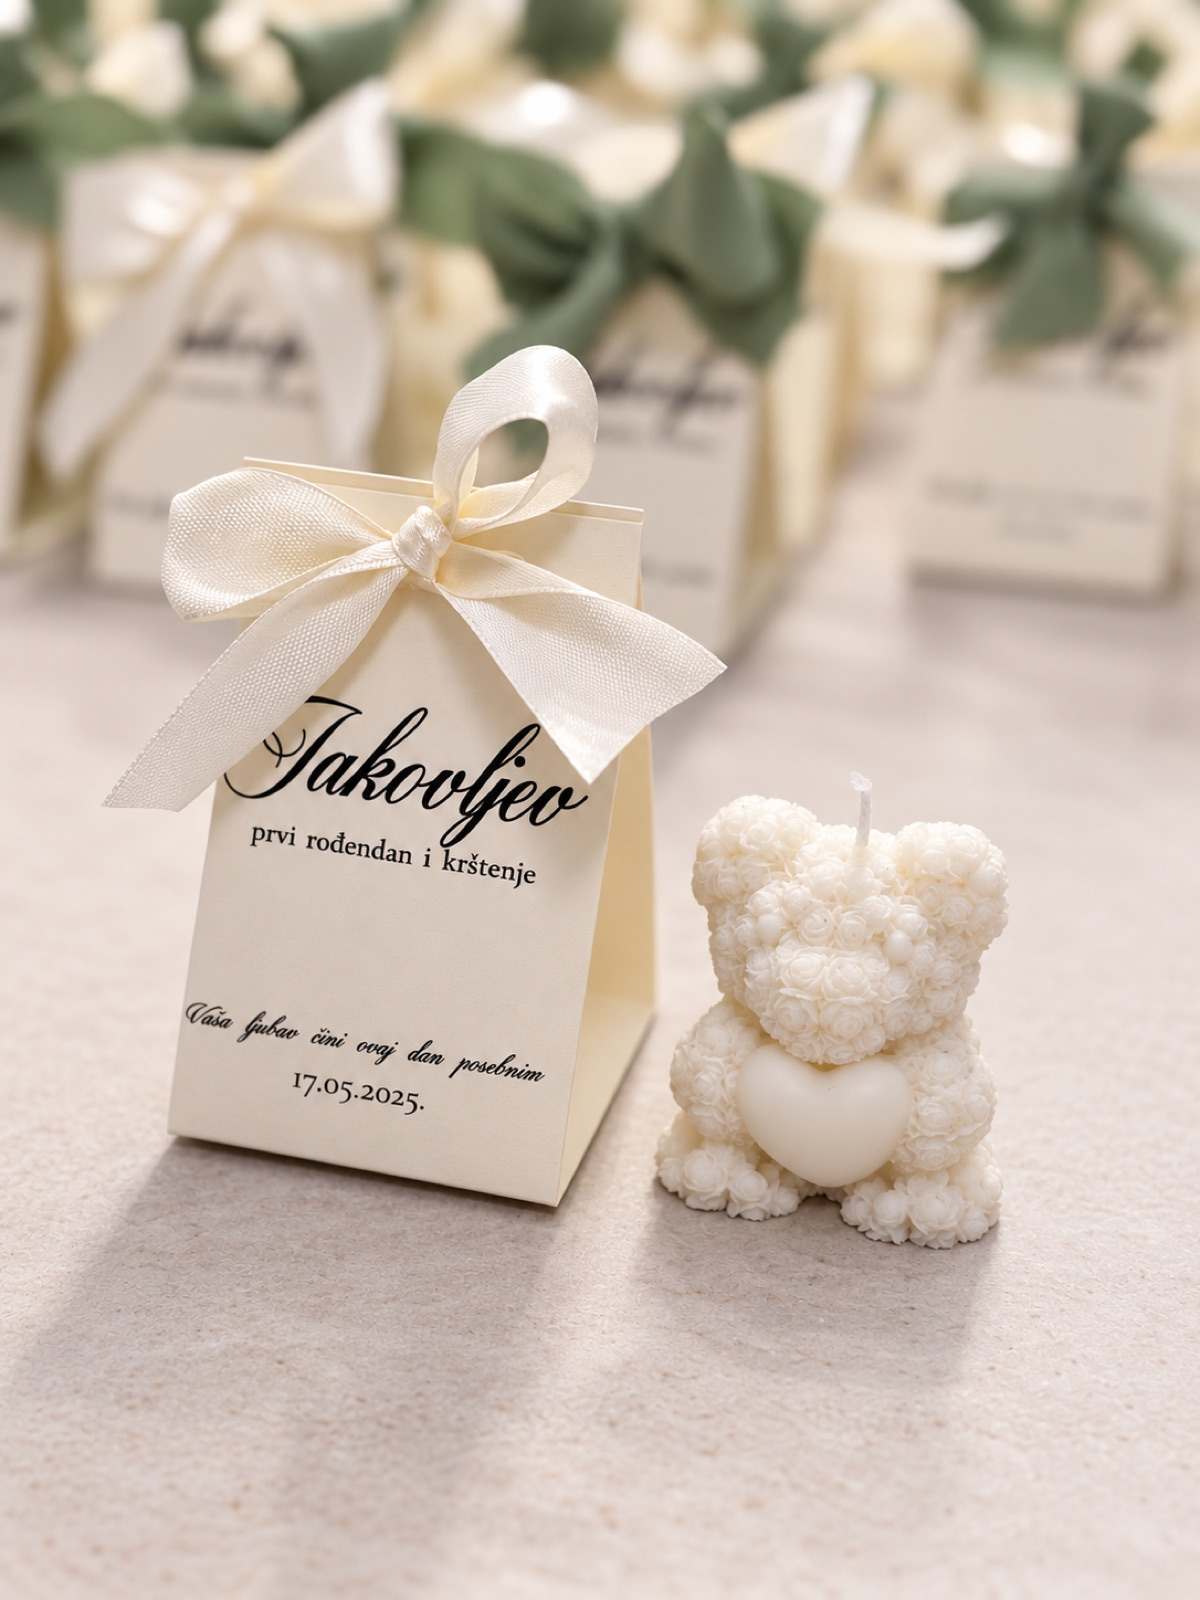
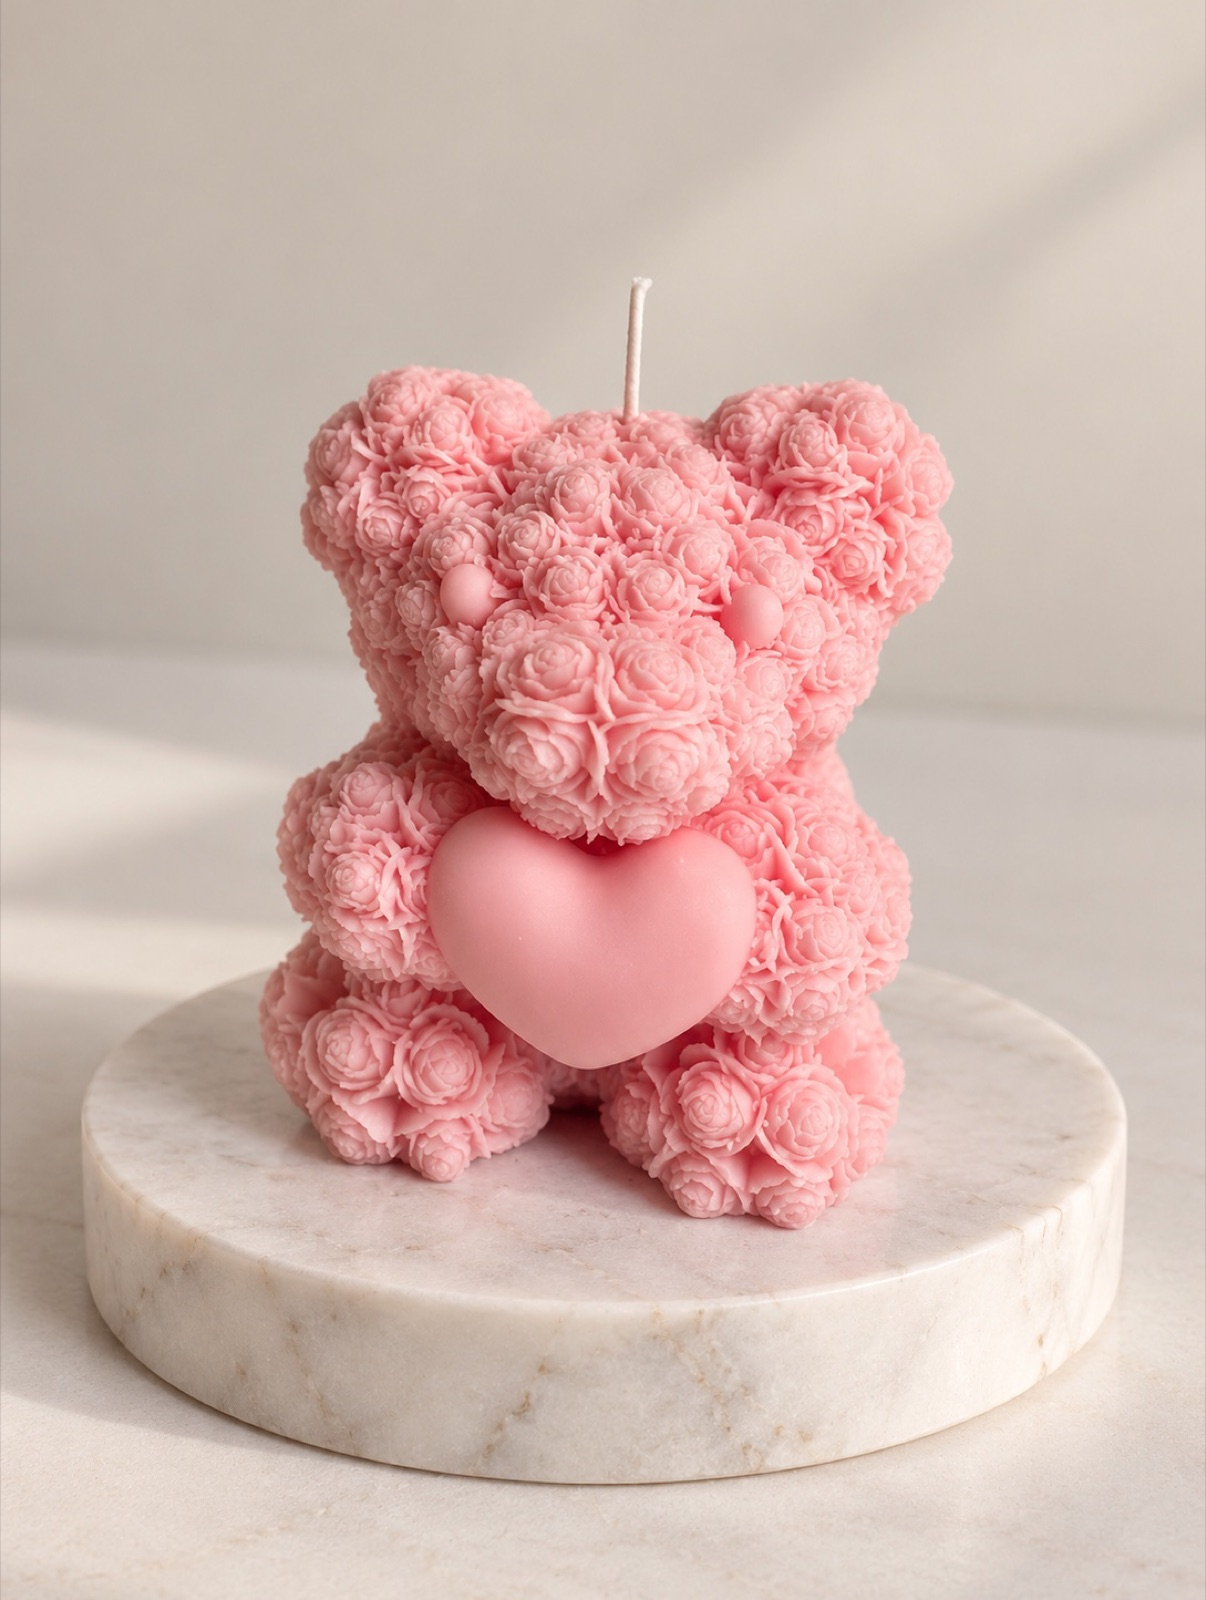
feat: new main photo for Meda sa srcem
ai-assisted: yes
ai-tool: codex
ai-scope: implementation

diff --git a/site.js b/site.js
@@ -42,7 +42,7 @@
 
   const PRODUCTS = [
     gift(7,  'Mali meda',             'bear',       1.7, '#eadfc8', ['mali-meda-1.jpg', 'mali-meda-2.jpg', 'mali-meda-3.jpg', 'mali-meda-4.jpg']),
-    gift(8,  'Meda sa srcem',         'bear-heart', 2.5, '#efc3cb', ['meda-sa-srcem-1.jpg']),
+    gift(8,  'Meda sa srcem',         'bear-heart', 2.5, '#efc3cb', ['meda-sa-srcem-1.jpg', 'meda-sa-srcem-2.jpg']),
     gift(9,  'Lavić',                 'lion',       1.7, '#f1dc8d', ['lavic-1.jpg', 'lavic-2.jpg', 'lavic-3.jpg']),
     gift(10, 'Bubble',                'bubble',     2.0, '#a9c4e4', ['bubble-1.jpg', 'bubble-2.jpg']),
     gift(11, 'Božur',                 'peony',      2.0, '#efc3cb', ['bozur-1.jpg']),
